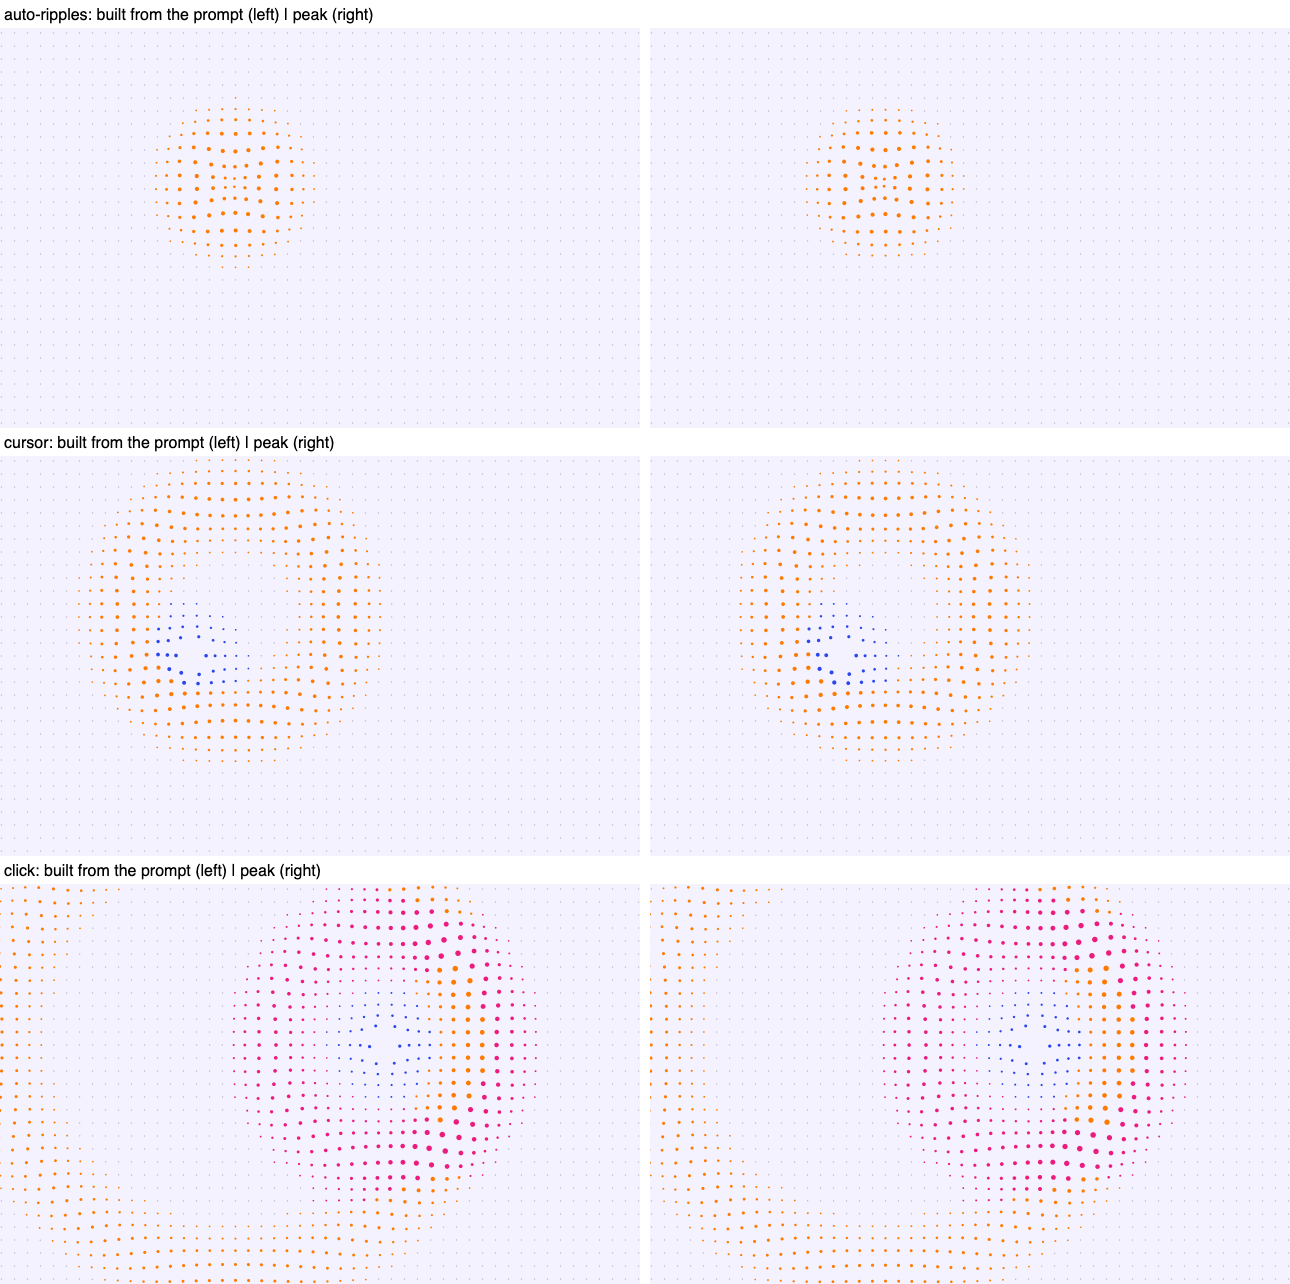
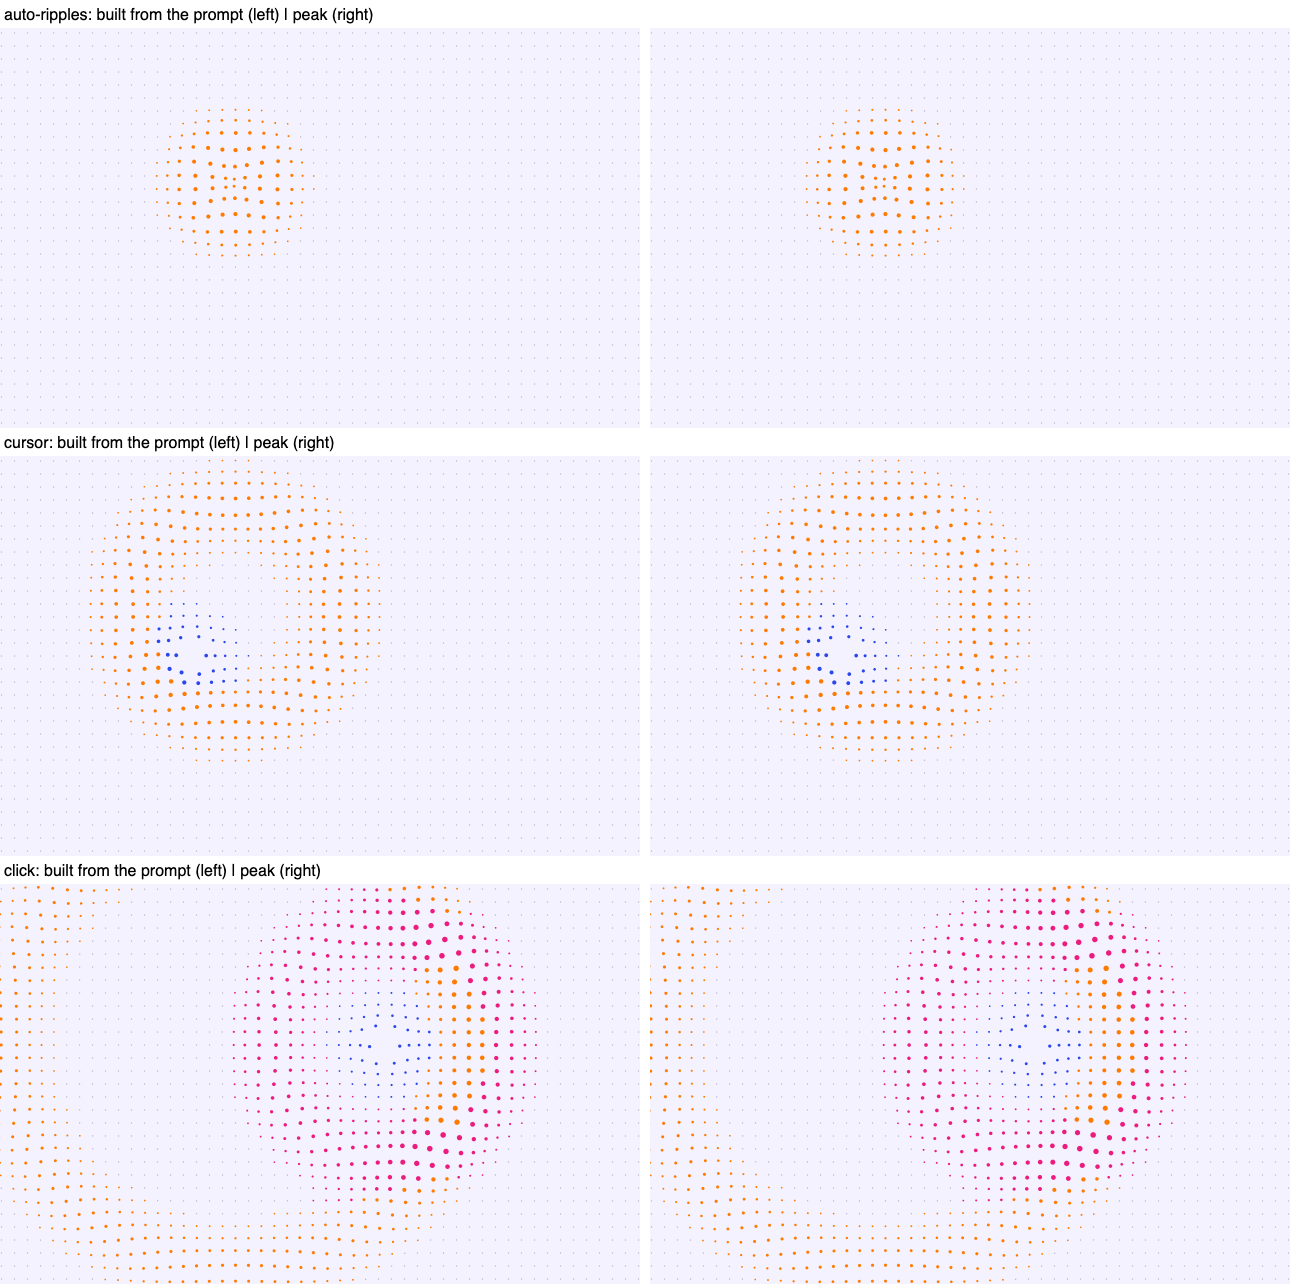
Wave 7 wrap-up: allow 11s for the cycle-worlds live check

Changed region(s): [[0.124, 0.9969, 0.2171, 1.0]]

diff --git a/tests/e2e/playground.spec.ts b/tests/e2e/playground.spec.ts
@@ -190,12 +190,14 @@ test.describe('desktop', () => {
     }
   });
 
-  test('Cycle worlds changes the ground within 9 seconds', async ({ page }) => {
+  test('Cycle worlds changes the ground within 11 seconds (it cycles every 8)', async ({
+    page,
+  }) => {
     await page.goto('/scenes/ripple/');
     await ready(page);
     await page.locator('[data-cycle]').click();
     const start = await ground(page);
-    await expect.poll(() => ground(page), { timeout: 9000 }).not.toBe(start);
+    await expect.poll(() => ground(page), { timeout: 11000 }).not.toBe(start);
   });
 
   test('Cycle worlds and world changes are reflected in the prompt', async ({ page }) => {

diff --git a/docs/DECISIONS.md b/docs/DECISIONS.md
@@ -271,3 +271,6 @@ The owner added three scenes from `docs/INDUSTRY_HEROES.md`: Tailor's cut, Fogge
 ## 2026-10-17: 7.6 `loaders`
 - Six loaders in plain CSS keyframes (the CSS lives in `loaders/styles.ts` and every shape is spelled out in the prompt), so each is easy to copy into any site. The page pauses them by adding a class that freezes every animation halfway through its loop (the still frame and the paused state). A click or tap on a grid cell features that loader (3 columns on wide screens, 2 on phones). Speed scales every loop; thickness drives the ring stroke, bar width, morph border and orbit ring. The stage is marked `accessible` (grid cells are real buttons).
 - All 50 scenes now exist.
+
+## 2026-10-17: Wave 7 wrap-up
+Full suite: 561 passed, 134 skipped (the skips are desktop-only or phone-only specs). One run failed `flow` phone parity under load and passed three times alone. The live check failed twice on "Cycle worlds changes the ground within 9 seconds": it cycles every 8 seconds, so a 9-second window was too tight under load; the test now allows 11 seconds. Live smoke and the phone test (59) pass.
